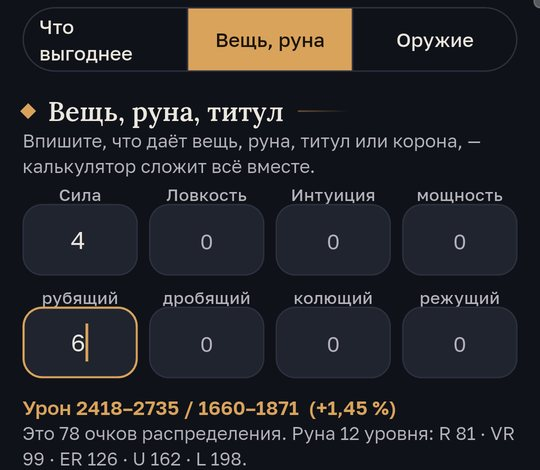
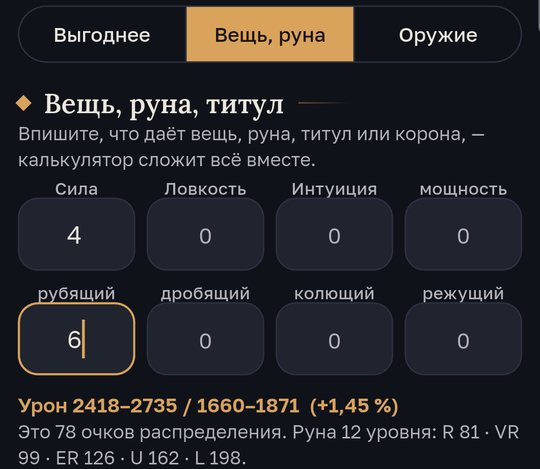
Пересняты скриншоты калькулятора урона

diff --git a/razbor-personazha/index.html b/razbor-personazha/index.html
@@ -48,9 +48,9 @@
 <li><b>Оружие.</b> Найдите оружие своего класса — калькулятор заменит им ваше и покажет, на сколько вырастет урон.</li>
 <li><b>Второе оружие.</b> На сколько процентов оно бьёт и что даст ещё единица мастерства вторым оружием.</li>
 </ul>
-<figure class="shot"><img src="/shots/damage.jpg" width="540" height="875" alt="Калькулятор урона: урон сейчас, ползунки Силы и рубящей мощности, вместе" loading="lazy"></figure>
+<figure class="shot"><img src="/shots/damage.jpg" width="540" height="871" alt="Калькулятор урона: урон сейчас, ползунки Силы и рубящей мощности, вместе" loading="lazy"></figure>
 <figure class="shot"><img src="/shots/damage-chart.jpg" width="540" height="640" alt="График прибавки урона: Сила со ступеньками порогов и мощность" loading="lazy"></figure>
-<figure class="shot"><img src="/shots/damage-item.jpg" width="540" height="470" alt="Вкладка «Вещь, руна»: +4 Силы и +6 рубящего урона — урон и очки распределения" loading="lazy"></figure>
+<figure class="shot"><img src="/shots/damage-item.jpg" width="540" height="469" alt="Вкладка «Вещь, руна»: +4 Силы и +6 рубящего урона — урон и очки распределения" loading="lazy"></figure>
 
 <h2>Калькулятор способностей</h2>
 <p>Что дают способности и класс, сколько осталось до порогов и что выгоднее: добрать способность или улучшить комплект — с процентом урона для каждого варианта.</p>
